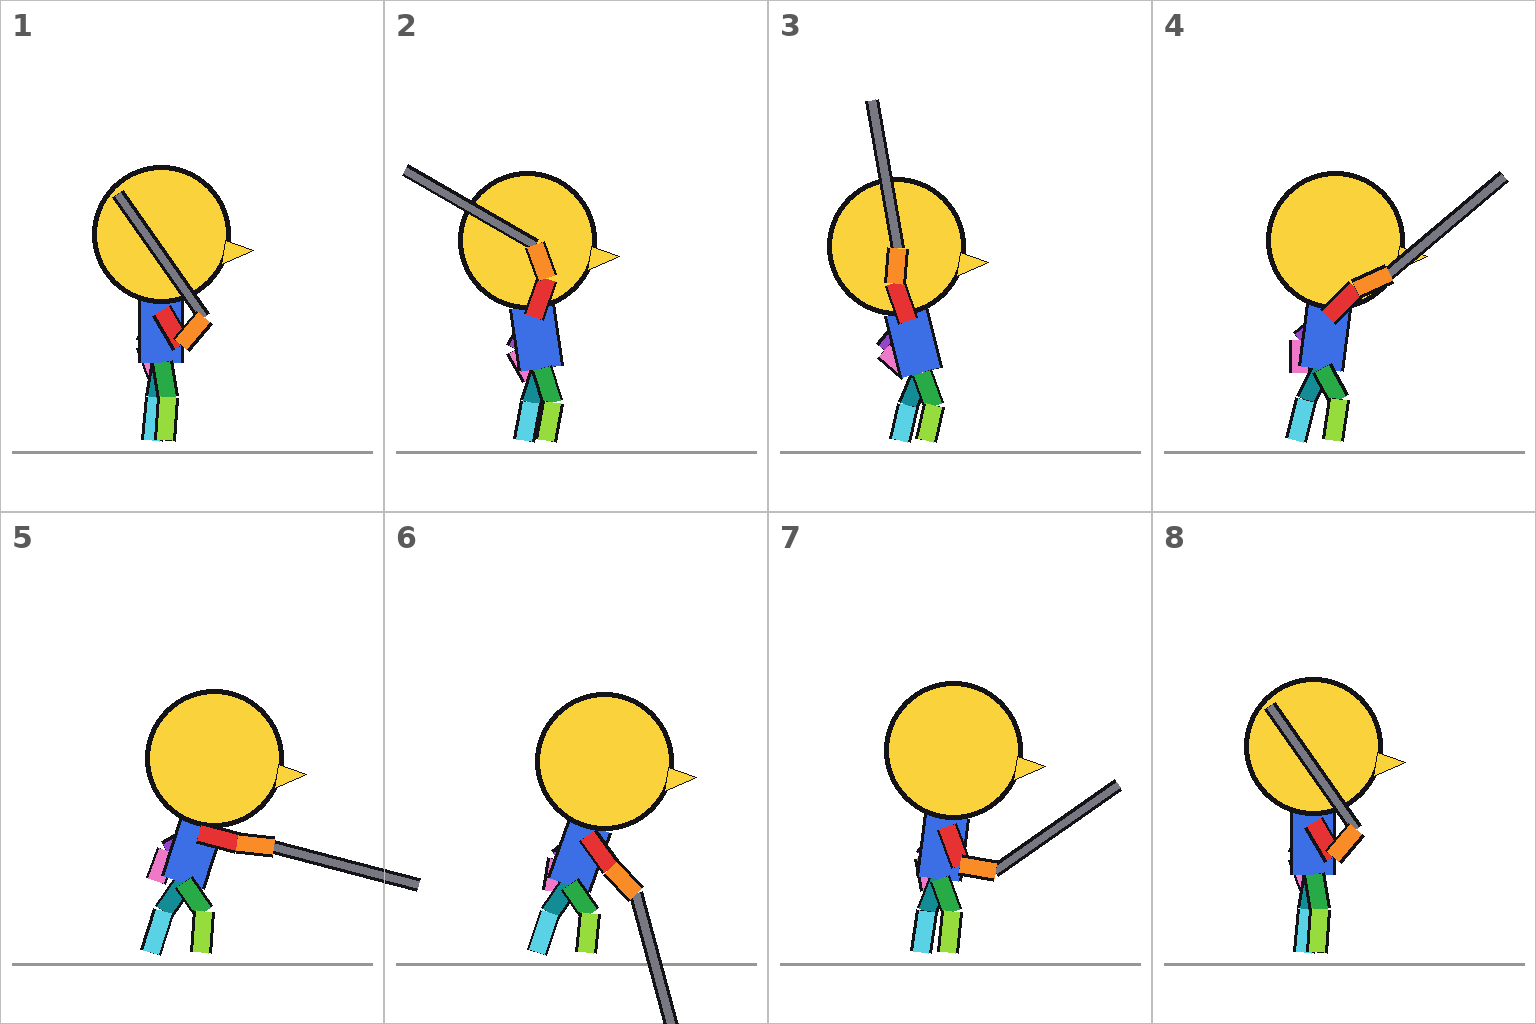
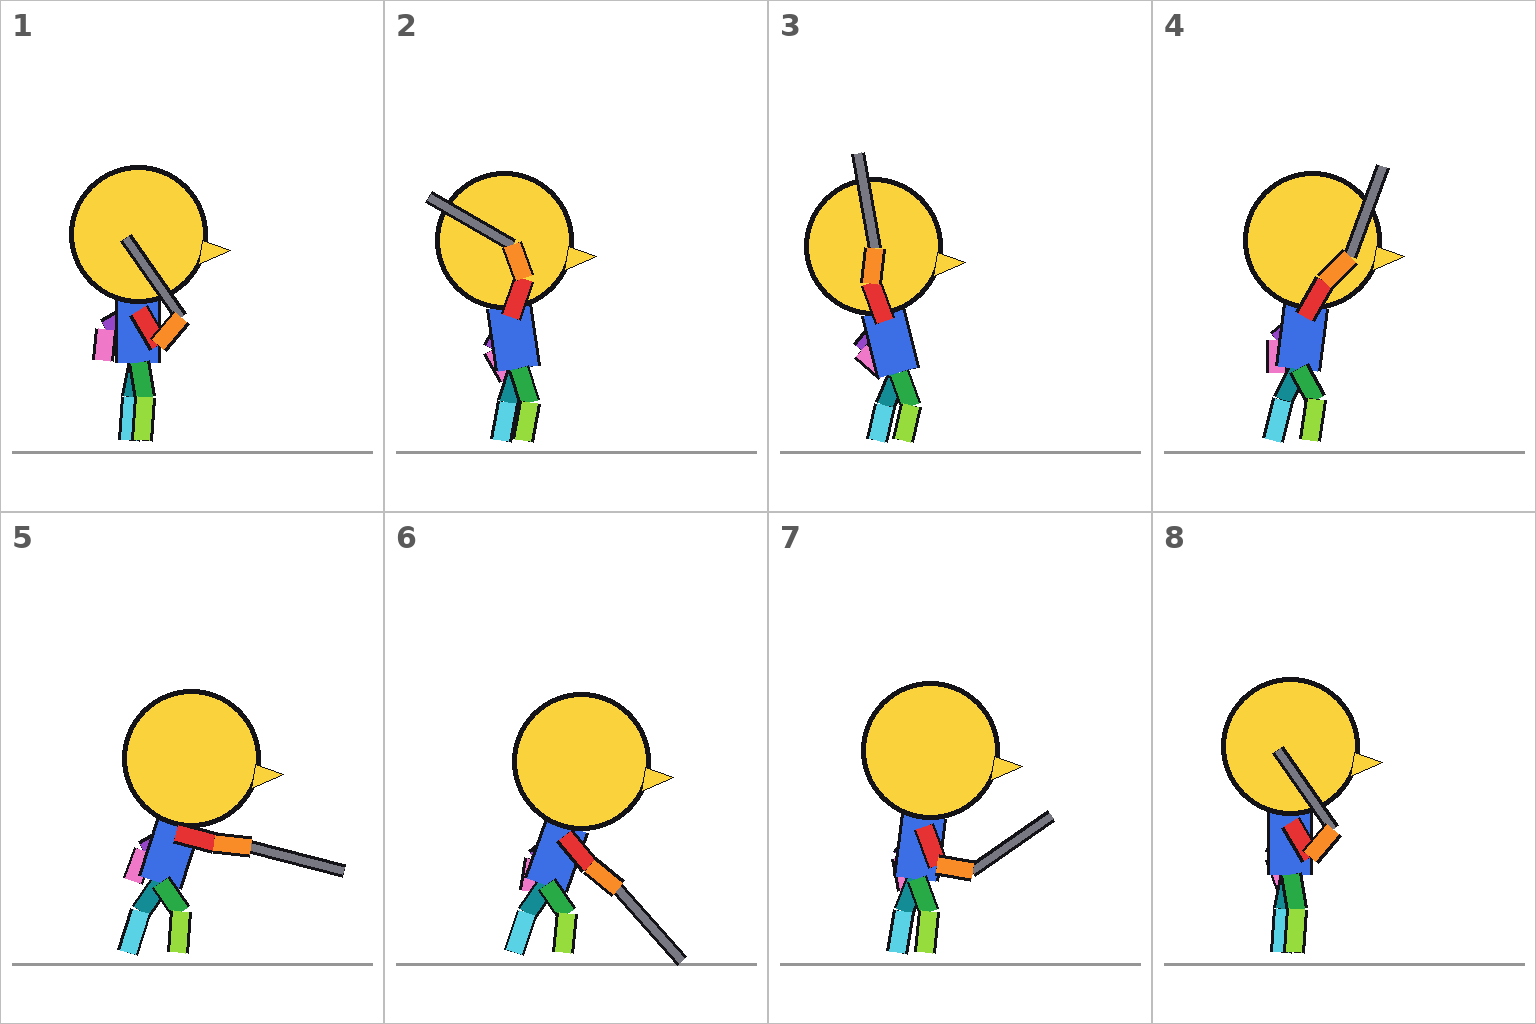
Pose guide: shorter sword, poses kept inside their cells
Claude-Session: https://claude.ai/code/session_01TXxUxQ6wjWh66ESj3NLopA

diff --git a/tools/art/pose_guide.py b/tools/art/pose_guide.py
@@ -9,19 +9,19 @@ O = 'art/incoming/dogcat/pose/'; CW, CH = 384, 512; GY = 440
 COL = dict(head=(250, 210, 60), torso=(60, 110, 230), armF1=(230, 50, 50), armF2=(250, 140, 40), armB1=(150, 70, 200), armB2=(240, 120, 200),
            legF1=(40, 170, 70), legF2=(150, 220, 60), legB1=(20, 140, 150), legB2=(90, 210, 230), sword=(120, 120, 130))
 #        lean  armF(up,fore)  sword  armB(up,fore)  legF(up,low)  legB(up,low)  hip dx,dy     angles: 0 = right, 90 = down
-POSES = [( 0,  ( 60, -50), -125, (115,  70), ( 80, 95), (100, 95),   0,  0),      # 0 stand, sword on the shoulder
+POSES = [( 0,  ( 60, -50), -125, ( 150,  95), ( 80, 95), (100, 95),   0,  0),      # 0 stand, sword on the shoulder
          (-8,  (-70,-110), -150, (120,  60), ( 72,100), (108,100),  -4,  6),      # 1 lifts it
          (-14, (-110,-85), -100, (130,  40), ( 70,102), (112,102),  -8, 10),      # 2 wound up, sword high behind
-         ( 8,  (-45, -25),  -40, (140,  90), ( 62, 98), (116,104),   8,  6),      # 3 swing starts, step forward
+         ( 8,  (-60, -45),  -70, (140,  90), ( 62, 98), (116,104),   8,  6),      # 3 swing starts, step forward
          ( 18, ( 15,   5),   15, (150, 110), ( 55, 95), (124,108),  22,  8),      # 4 HIT: arm and sword straight ahead
-         ( 20, ( 55,  45),   75, (140, 100), ( 56, 96), (124,108),  24, 10),      # 5 follow-through, sword low
+         ( 20, ( 50,  40),   48, (140, 100), ( 56, 96), (124,108),  24, 10),      # 5 follow-through, sword low
          ( 8,  ( 70,  10),  -35, (125,  80), ( 70, 96), (110,100),  10,  4),      # 6 pulls back
          ( 0,  ( 60, -50), -125, (115,  70), ( 80, 95), (100, 95),   0,  0)]      # 7 stand again
 def pt(p, ang, l): return (p[0] + math.cos(math.radians(ang)) * l, p[1] + math.sin(math.radians(ang)) * l)
 def joints(pose):
-    lean, aF, sw, aB, lF, lB, dx, dy = pose; hip = (CW * .42 + dx, GY - 78 + dy); neck = pt(hip, -90 + lean, 62); head = pt(neck, -90 + lean * .6, 66)
+    lean, aF, sw, aB, lF, lB, dx, dy = pose; hip = (CW * .36 + dx, GY - 78 + dy); neck = pt(hip, -90 + lean, 62); head = pt(neck, -90 + lean * .6, 66)
     J = dict(hip=hip, neck=neck, head=head); sh = pt(hip, -90 + lean, 52)
-    J['elbF'] = pt(sh, aF[0], 40); J['handF'] = pt(J['elbF'], aF[1], 36); J['tip'] = pt(J['handF'], sw, 150)
+    J['elbF'] = pt(sh, aF[0], 40); J['handF'] = pt(J['elbF'], aF[1], 36); J['tip'] = pt(J['handF'], sw, 96)
     J['elbB'] = pt(sh, aB[0], 38); J['handB'] = pt(J['elbB'], aB[1], 32)
     J['kneeF'] = pt(hip, lF[0], 36); J['footF'] = (pt(J['kneeF'], lF[1], 40)[0], GY); J['kneeB'] = pt(hip, lB[0], 36); J['footB'] = (pt(J['kneeB'], lB[1], 40)[0], GY); J['sh'] = sh
     return J
